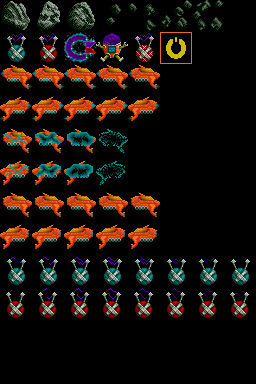
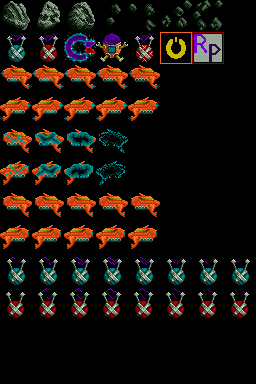
Rastport tile added

Changed region(s): [[0.75, 0.0625, 0.875, 0.1875]]

diff --git a/src/maps.h b/src/maps.h
@@ -17,9 +17,9 @@ int map_commodorlen[MAP_HEIGHT][MAP_WIDTH] = {
 	{1, 2, s, 0, 0, 0, 0, 0, 0, 1, 0, 0, 0, 0, 0, 0, 0, 0, 0, 1, 1, 0, 0, 1, 1, 0, 1, 0, 0, 0, 0, 0, 0, 0, 0, 0, 0, 0, 0, 1},
 	{1, s, S, s, 1, 0, 0, 0, 0, 1, 0, 0, 0, 0, 0, 0, 0, 0, 0, 1, 1, 0, 0, 1, 1, 0, 1, 0, 0, 0, 0, 0, 0, 0, 0, 0, 0, 0, 0, 1},
 	{1, 0, s, 0, 0, 0, 0, 0, 0, 1, 0, 0, 0, 0, 0, 0, 0, 0, 0, 1, 1, 0, 0, 1, 1, 0, 1, 0, 0, 0, 0, 0, 0, 0, 0, 0, 0, 0, 0, 1},
-	{1, 0, 0, 0, 0, 0, 0, 0, 0, 1, 0, 0, 0, 0, 0, 0, 0, 0, 0, 1, 1, 0, 0, 1, 1, 0, 1, 0, 0, 0, 0, 0, 0, 0, 0, 0, 0, 0, 0, 1},
-	{1, 0, 0, 0, 0, 0, 0, 0, 0, 1, 0, 0, 0, 0, 0, 0, 0, 0, 0, 1, 1, 0, 0, 1, 1, 0, 1, 0, 0, 0, 0, 0, 0, 0, 0, 0, 0, 0, 0, 1},
-	{1, 0, 0, 0, 0, 0, 0, 0, 0, 1, 0, 0, 0, 0, 0, 0, 0, 0, 0, 1, 1, 0, 0, 1, 1, 0, 1, 0, 0, 0, 0, 0, 0, 0, 0, 0, 0, 0, 0, 1},
+	{1, 0, r, 0, 0, 0, 0, 0, 0, 1, 0, 0, 0, 0, 0, 0, 0, 0, 0, 1, 1, 0, 0, 1, 1, 0, 1, 0, 0, 0, 0, 0, 0, 0, 0, 0, 0, 0, 0, 1},
+	{1, r, R, r, 0, 0, 0, 0, 0, 1, 0, 0, 0, 0, 0, 0, 0, 0, 0, 1, 1, 0, 0, 1, 1, 0, 1, 0, 0, 0, 0, 0, 0, 0, 0, 0, 0, 0, 0, 1},
+	{1, 0, r, 0, 0, 0, 0, 0, 0, 1, 0, 0, 0, 0, 0, 0, 0, 0, 0, 1, 1, 0, 0, 1, 1, 0, 1, 0, 0, 0, 0, 0, 0, 0, 0, 0, 0, 0, 0, 1},
 	{1, 1, 1, 1, 1, 1, 1, 1, 1, 1, 0, 0, 0, 0, 0, 0, 0, 0, 0, 1, 1, 0, 0, 1, 1, 0, 1, 0, 0, 0, 0, 0, 0, 0, 0, 0, 0, 0, 0, 1},
 	{0, 0, 0, 0, 0, 0, 0, 0, 0, 0, 0, 0, 0, 0, 0, 0, 0, 0, 0, 1, 1, 0, 0, 1, 1, 0, 1, 0, 0, 0, 0, 0, 0, 0, 0, 0, 0, 0, 0, 1},
 	{0, 0, 0, 0, 0, 0, 0, 0, 0, 0, 0, 0, 0, 0, 0, 0, 0, 0, 0, 1, 1, 0, 0, 1, 1, 0, 1, 0, 0, 0, 0, 0, 0, 0, 0, 0, 0, 0, 0, 1},

diff --git a/src/game.c b/src/game.c
@@ -129,8 +129,9 @@ void isInteractionOnAdjacentTile(){
 	switch(mapCurrent[wicher.mapPosY][wicher.mapPosX]){
 		case 's':
 		statePush(g_pGameStateManager, g_pHudState);
-		//blitSquareHUDtwice = 0;
-		//wicher.state = STATE_HUD;
+		break;
+		case 'r':
+		statePush(g_pGameStateManager, g_pHudState);
 		break;
 	}
 }
@@ -139,6 +140,7 @@ BOOL walkableTiles(int checkX, int checkY){
 	switch (mapCurrent[checkY][checkX]){
 		case 0:
 		case s:
+		case r:
 		return TRUE;
 	}
 	return FALSE;
@@ -191,12 +193,15 @@ void drawMap()
 	{
 		for (UBYTE j = 0; j < MAP_HEIGHT; ++j)
 		{
-			if (mapCurrent[j][i] == EMPTY_TILE || mapCurrent[j][i] == s) // TODO BETTER
+			if (mapCurrent[j][i] == EMPTY_TILE || mapCurrent[j][i] == s || mapCurrent[j][i] == r) // TODO BETTER
 			{
 				blitRect(s_pMainBuffer->pBack, i * TS, j * TS, TS, TS, 0);
 			}
 			if (mapCurrent[j][i] == S){ // SORDAN TILE
 				blitCopy(s_pTileset, 160, 32, s_pMainBuffer->pBack, i * TS, j * TS, TS, TS, MINTERM_COOKIE);
+			}
+			if (mapCurrent[j][i] == R){ // RASTPORT TILE
+				blitCopy(s_pTileset, 192, 32, s_pMainBuffer->pBack, i * TS, j * TS, TS, TS, MINTERM_COOKIE);
 			}
 			if (mapCurrent[j][i] == METEORITE)
 			{

diff --git a/src/defines.h b/src/defines.h
@@ -29,6 +29,8 @@
 
 #define S 'S' // SORDAN TILE
 #define s 's' // SORDAN CHECK TILES
+#define R 'R' // RASTPORT TILE
+#define r 'r' // RASTPORT CHECK TILES
 
 
 
